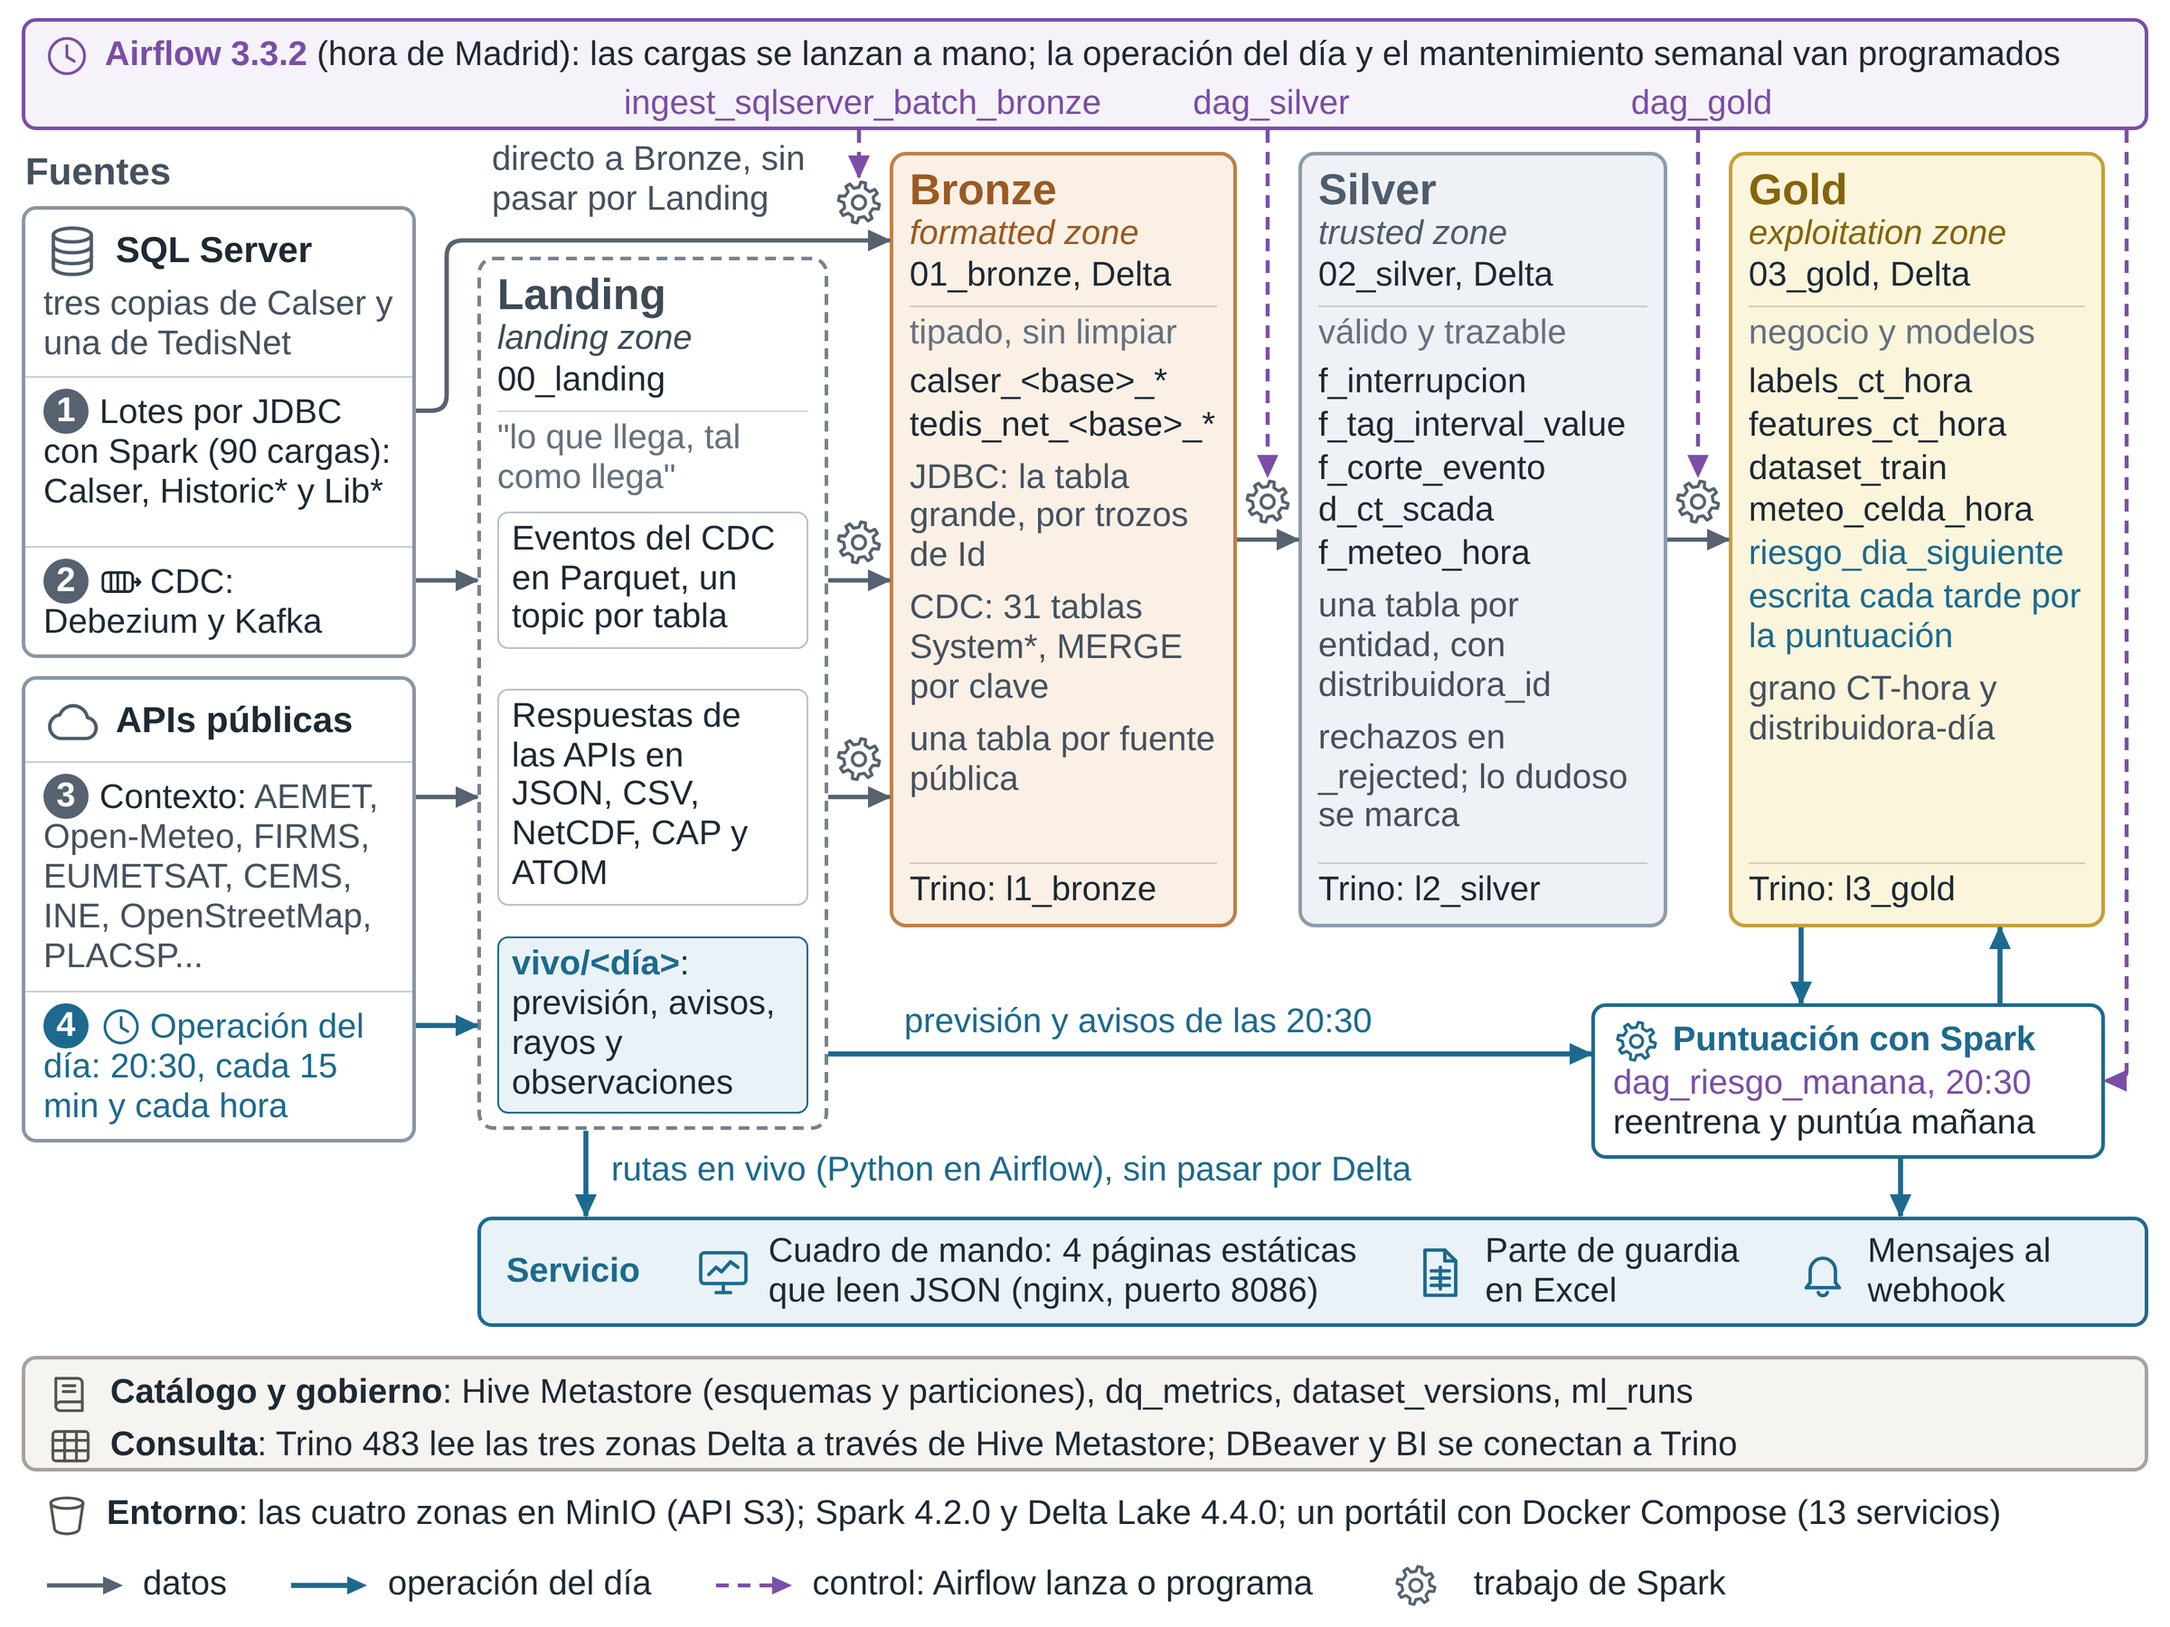
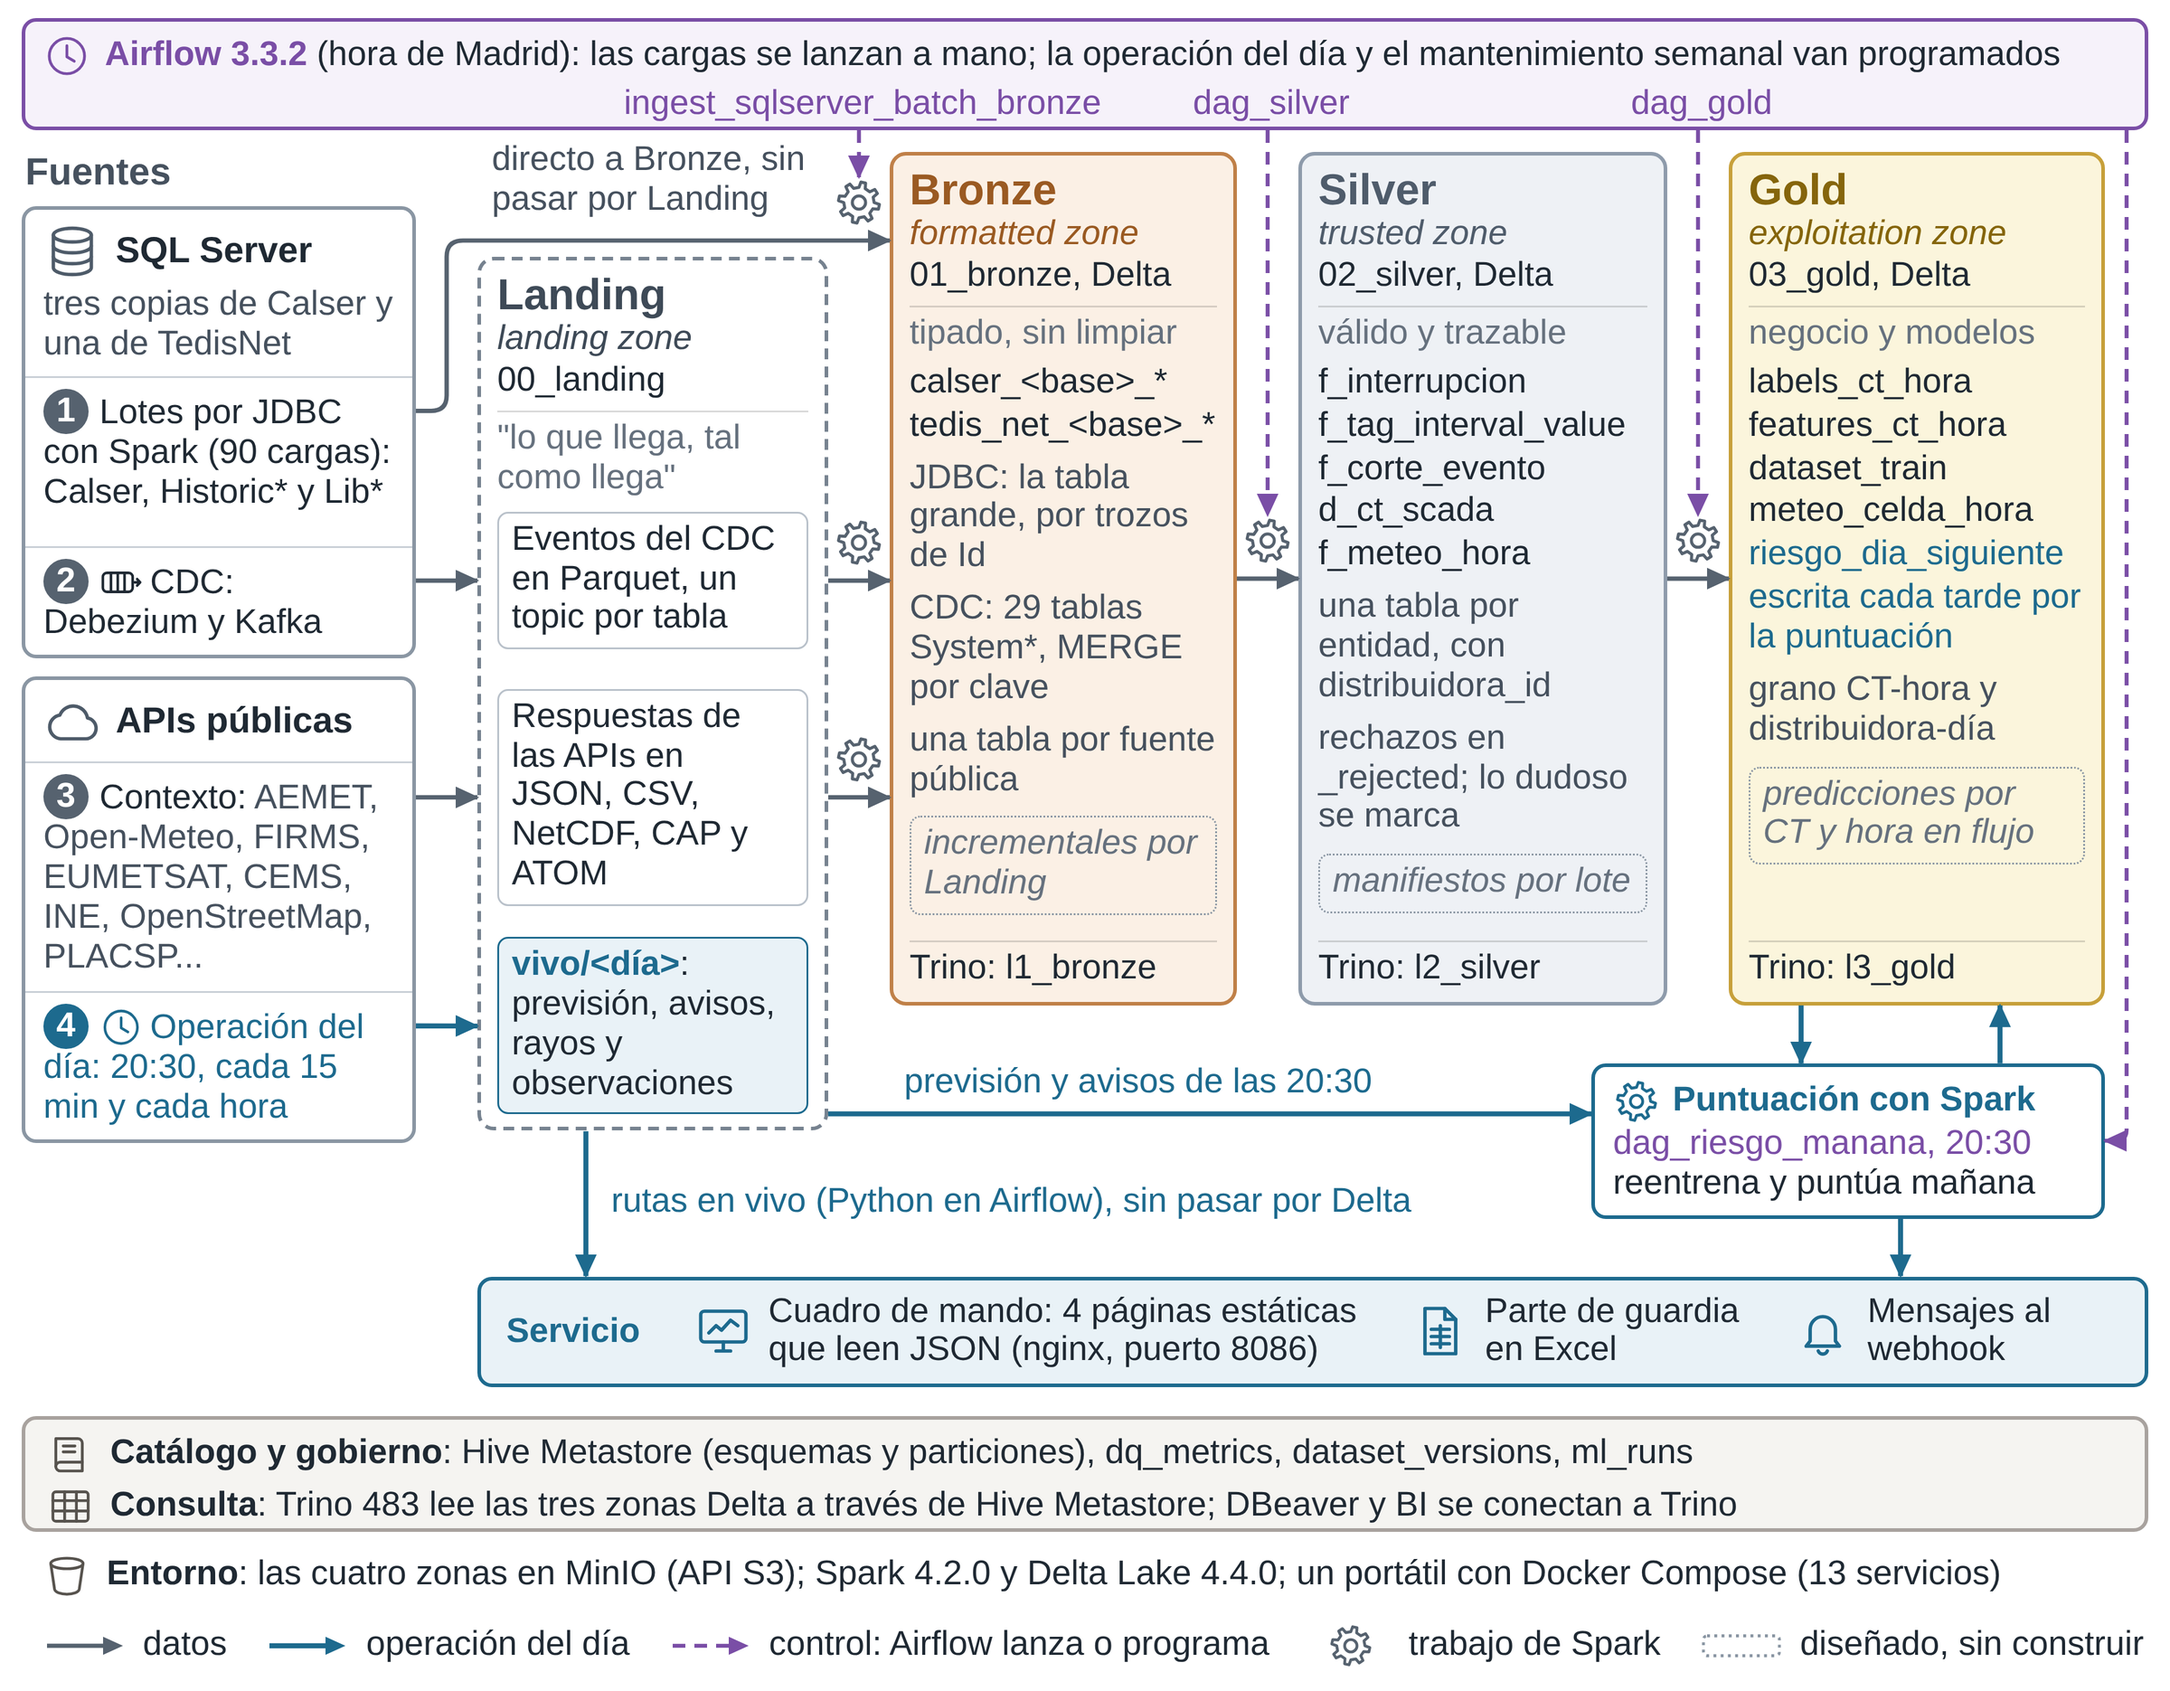
Figura de arquitectura: 29 tablas del CDC y lo no construido con borde de puntos
La captura de cambios sigue 29 tablas System* desde la 0.16.0 y la
figura decía 31. Las piezas del diseño que no se construyeron (cargas
incrementales por Landing, manifiestos por lote y predicciones por CT y
hora en flujo) van con borde de puntos y entrada en la leyenda.

diff --git a/experimentos/figuras/arquitectura/fig01_arquitectura.html b/experimentos/figuras/arquitectura/fig01_arquitectura.html
@@ -31,7 +31,7 @@
   * { box-sizing: border-box; }
   html, body { margin: 0; padding: 0; background: #ffffff; }
   body {
-    width: 1200px; height: 900px; position: relative; overflow: hidden;
+    width: 1200px; height: 935px; position: relative; overflow: hidden;
     font-family: "Liberation Sans", Arial, Helvetica, sans-serif;
     font-size: var(--fs); line-height: 1.15; color: var(--ink);
   }
@@ -85,6 +85,7 @@
   .sub.op { border-color: var(--op); background: var(--op-bg); }
   .sub.op b { color: var(--op); }
   .opt { color: var(--op); }
+  .sub.nb { border: 1.6px dotted #8a96a3; background: transparent; color: var(--soft); font-style: italic; }
 
   /* operación */
   .job { border: 2px solid var(--op); border-radius: 8px; background: #ffffff; padding: 6px 10px; }
@@ -104,11 +105,11 @@
   .cat svg { color: var(--cat); }
   .store { display: flex; gap: 9px; align-items: center; white-space: nowrap; padding-left: 12px; }
   .store svg { color: var(--cat); }
-  .legend { display: flex; flex-direction: row; gap: 34px; align-items: center; padding-left: 10px; }
+  .legend { display: flex; flex-direction: row; gap: 22px; white-space: nowrap; align-items: center; padding-left: 10px; }
   .legend .lg { display: flex; align-items: center; gap: 9px; }
   .legend svg.sw { width: 46px; height: 14px; flex: none; }
 
-  #ov { position: absolute; left: 0; top: 0; width: 1200px; height: 900px; pointer-events: none; overflow: visible; }
+  #ov { position: absolute; left: 0; top: 0; width: 1200px; height: 935px; pointer-events: none; overflow: visible; }
 </style>
 </head>
 <body>
@@ -178,8 +179,9 @@
     <div>calser_&lt;base&gt;_*</div>
     <div>tedis_net_&lt;base&gt;_*</div>
     <div class="note">JDBC: la tabla grande, por trozos de Id</div>
-    <div class="note">CDC: 31 tablas System*, MERGE por clave</div>
+    <div class="note">CDC: 29 tablas System*, MERGE por clave</div>
     <div class="note">una tabla por fuente pública</div>
+    <div class="sub nb">incrementales por Landing</div>
   </div>
   <div class="zf">Trino: l1_bronze</div>
 </div>
@@ -197,6 +199,7 @@
     <div>f_meteo_hora</div>
     <div class="note">una tabla por entidad, con distribuidora_id</div>
     <div class="note">rechazos en _rejected; lo dudoso se marca</div>
+    <div class="sub nb">manifiestos por lote</div>
   </div>
   <div class="zf">Trino: l2_silver</div>
 </div>
@@ -214,6 +217,7 @@
     <div class="opt" id="g-riesgo">riesgo_dia_siguiente</div>
     <div class="opt">escrita cada tarde por la puntuación</div>
     <div class="note">grano CT-hora y distribuidora-día</div>
+    <div class="sub nb">predicciones por CT y hora en flujo</div>
   </div>
   <div class="zf">Trino: l3_gold</div>
 </div>
@@ -239,6 +243,7 @@
   <div class="lg"><svg class="sw"><line x1="2" y1="7" x2="34" y2="7" stroke="#1d6a8e" stroke-width="2.8"/><path d="M33 2 44 7 33 12z" fill="#1d6a8e"/></svg>operación del día</div>
   <div class="lg"><svg class="sw"><line x1="2" y1="7" x2="34" y2="7" stroke="#7a4ea6" stroke-width="2.2" stroke-dasharray="7 5"/><path d="M33 2 44 7 33 12z" fill="#7a4ea6"/></svg>control: Airflow lanza o programa</div>
   <div class="lg"><svg class="ic" style="color:#56626f;margin:0 10px"><use href="#i-gear"/></svg>trabajo de Spark</div>
+  <div class="lg"><svg class="sw"><rect x="2" y="1.5" width="42" height="11" rx="2" fill="none" stroke="#8a96a3" stroke-width="1.6" stroke-dasharray="1.6 2.4"/></svg>diseñado, sin construir</div>
 </div>
 
 <!-- Catálogo y almacenamiento -->
@@ -299,7 +304,7 @@
   const Zb = R("z-gold").b;
   // scoring job under Gold; upper lane enters it from vivo
   const vivo = R("l-vivo"), land = R("z-landing");
-  const jTop = Math.max(Zb + 42, vivo.t - 6);
+  const jTop = Math.max(Zb + 32, vivo.t - 6);
   $("job-score").style.top = px(jTop);
   const J0 = R("job-score");
   $("lab-upper").style.top = px(J0.t + 28 - 4 - 24);
@@ -429,7 +434,7 @@
     const blocks = Array.from(document.querySelectorAll(".blk, .lab, .colhead")).map(e => ({ e, r: e.getBoundingClientRect() }));
     blocks.forEach(b => {
       out.contentBottom = Math.max(out.contentBottom, b.r.bottom);
-      if (b.r.left < 0 || b.r.top < 0 || b.r.right > 1200 || b.r.bottom > 900) out.outside.push(b.e.id || b.e.className);
+      if (b.r.left < 0 || b.r.top < 0 || b.r.right > 1200 || b.r.bottom > 935) out.outside.push(b.e.id || b.e.className);
     });
     for (let i = 0; i < blocks.length; i++) for (let j = i + 1; j < blocks.length; j++) {
       const a = blocks[i].r, b = blocks[j].r;

diff --git a/experimentos/figuras/arquitectura/render.py b/experimentos/figuras/arquitectura/render.py
@@ -12,7 +12,7 @@ from playwright.sync_api import sync_playwright
 HERE = os.path.dirname(os.path.abspath(__file__))
 SRC = os.path.join(HERE, "fig01_arquitectura.html")
 OUT = os.path.join(HERE, "fig01_arquitectura.png")
-W, H = 1200, 900
+W, H = 1200, 935
 PRINT_WIDTH_CM = 16.0
 
 

diff --git a/CHANGELOG.md b/CHANGELOG.md
@@ -40,6 +40,7 @@ Lo que sale de las tres pasadas de investigación del 17.10.2026: la calibració
 
 ### Cambiado
 
+- Figura de arquitectura (`experimentos/figuras/arquitectura/fig01_arquitectura.html` y `docs/arquitectura.png`): la captura de cambios sigue 29 tablas `System*` (decía 31, las de la carga del 08.10.2026), y lo que diseñamos y no construimos va en cajas de borde de puntos con su entrada en la leyenda: las cargas incrementales por Landing, los manifiestos por lote y las predicciones por CT y hora en flujo.
 - La tarde con la copia de Calser desfasada (`historia_al_dia` en falso, lo normal mientras no llega un backup nuevo) tiene ahora una clave, `riesgo_manana.historia_desfasada`: con `"mediana"` entrena el modelo del día y el de pasado mañana con la historia y puntúa con la mediana de los días de entrenamiento (lo que hacía hasta ahora sin que ninguna evaluación lo midiera); con `"sin_historia"` los entrena sin el bloque. `job_ml_riesgo_dia` mide las dos con las variantes `operativa_historia_mediana` y `operativa_sin_historia` (`historia_al_puntuar`, que `rolling_evaluation` aplica con `blank`), y la noche del 17.10 (`dia_historia_20261017_2107`, cuaderno 3v) dio que la mediana no pierde nada frente a la historia real (+0,005 y +0,003 de PR-AUC) y que entrenar sin el bloque pierde en torno a 0,01 (-0,012 y -0,011): el 17.10 se cambió a `"sin_historia"` y el 18.10, con esas cifras, el valor por defecto vuelve a `"mediana"`.
 - Clasificación de causas: `f_incidencia_causa` lleva la marca `simultanea_otra_red` en las incidencias imprevistas que empiezan en el mismo segundo que una de otra distribuidora (`shared_start` en `job_silver_f_incidencia_causa.py`, con su prueba y una métrica de calidad), sin cambiarles la causa. El 17.10 esas incidencias pasaban a aguas arriba como fallos de un proveedor común (`proveedor_comun`) y el 18.10 se retiró esa regla antes de medirla: una causa general puede cortar a la vez redes de proveedores distintos y la causa que escribió el operador es el mejor registro. Las cifras del caso de negocio no cambian.
 - La tarde se entrena hasta la última incidencia de Calser menos 45 días (`riesgo_manana.margen_etiquetas_dias`, antes 7), porque las interrupciones pendientes reciben su incidencia semanas después; si la copia está al día para la historia de mañana lo dice ahora `historia_margen_dias` (7). El caso de negocio guarda sus 7 días en `caso_negocio.margen_etiquetas_dias`.
